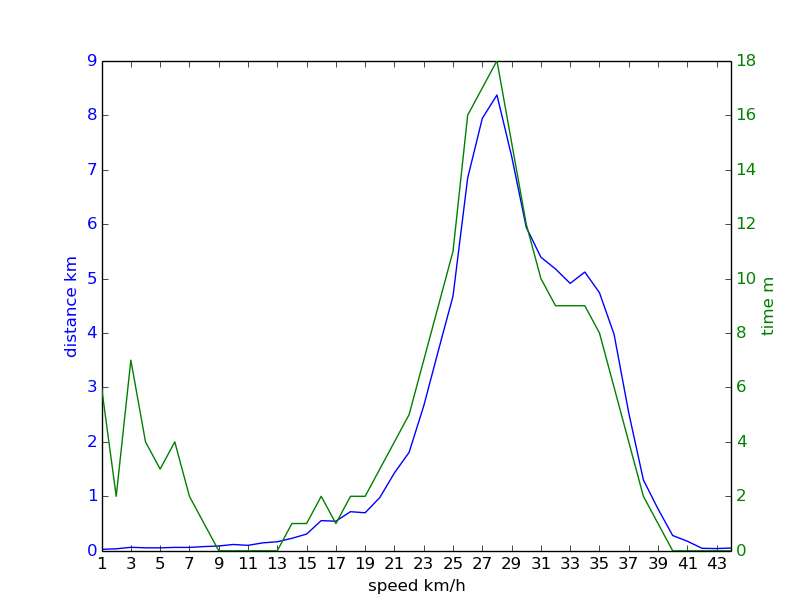
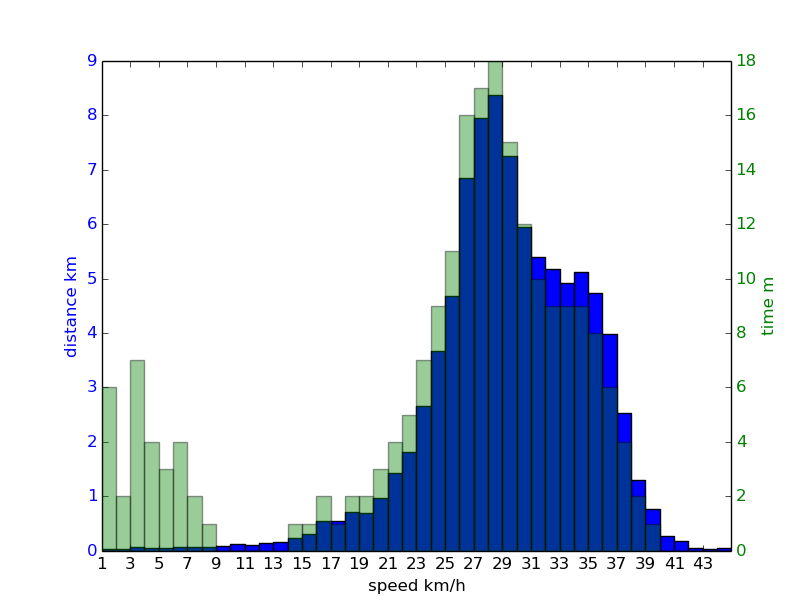
bar chart better

Changed region(s): [[0.1232, 0.0931, 0.8929, 0.9314]]

diff --git a/gpxhistogram.py b/gpxhistogram.py
@@ -109,7 +109,8 @@ def histogram(gpx, maxspeed):
 def plot_gpx_histogram(x,y1,y2):
     fig, ax1 = plt.subplots()
     plt.xticks(np.arange(min(x), max(x)+1, 2.0))
-    ax1.plot(x,y1,"b-")
+    #ax1.plot(x,y1,"b-")
+    ax1.bar(x,y1,1,color='b',alpha=1)
     ax1.set_xlabel("speed km/h")
 
     ax1.set_ylabel('distance km', color='b')
@@ -117,7 +118,8 @@ def plot_gpx_histogram(x,y1,y2):
        tl.set_color('b')
 
     ax2 = ax1.twinx()
-    ax2.plot(x,y2,"g-")
+    #ax2.plot(x,y2,"g-")
+    ax2.bar(x,y2,1,color='g',alpha=0.4)
     ax2.set_ylabel('time m', color='g')
     for tl in ax2.get_yticklabels():
         tl.set_color('g')
